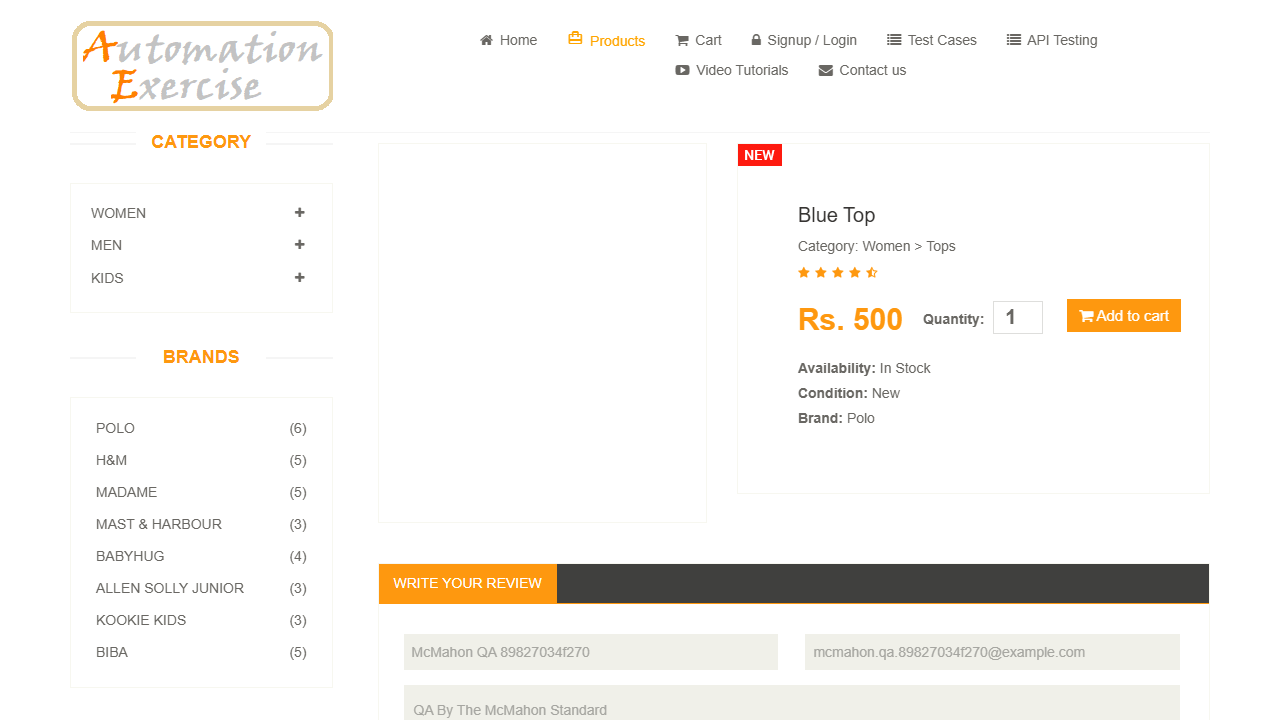
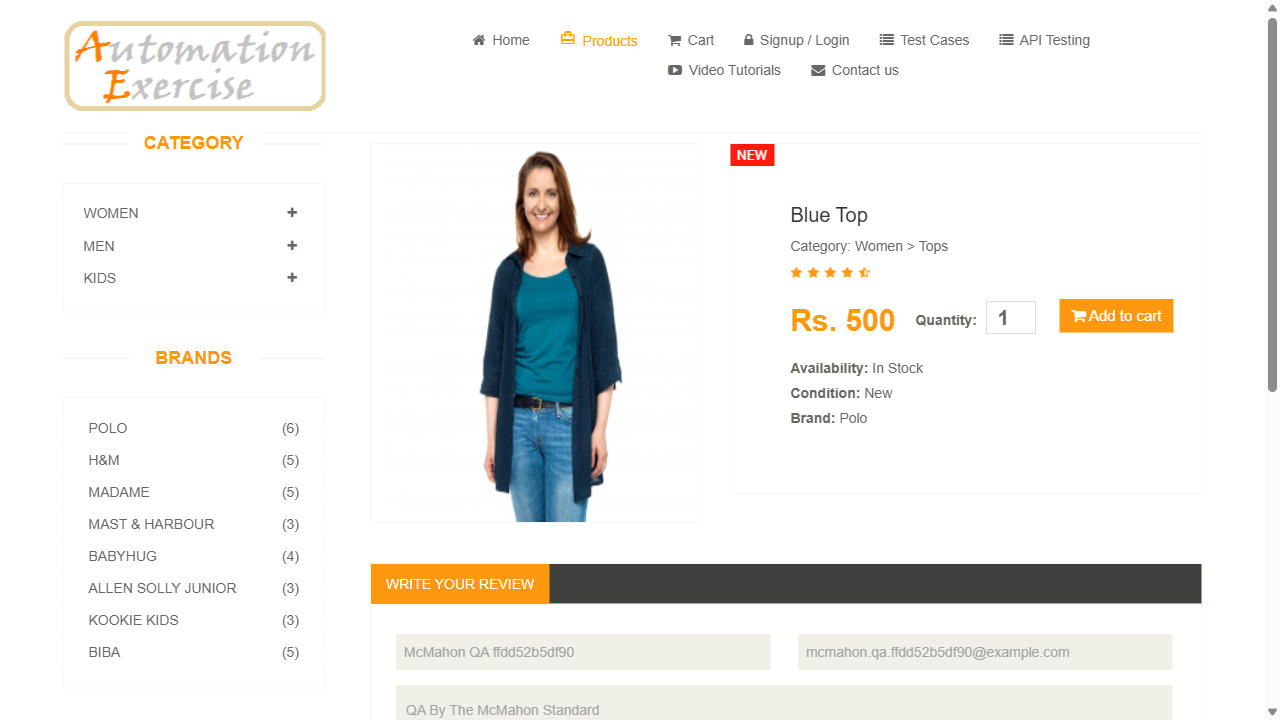
docs: reconcile Jira and portfolio artifacts
Reconcile completed registration, checkout, cart persistence, and product review results across Jira, the RTM, the Test Case Repository, evidence, and README documentation.

Complete the planned automation Test Case fields for AEQA-125 through AEQA-128 while keeping them Backlog and Not Run.

diff --git a/README.md b/README.md
@@ -10,13 +10,13 @@ I am transitioning into software quality assurance and data analysis. This portf
 
 | Area | Completed Work | Current Result |
 |---|---|---|
-| Test execution | 48 portfolio Test Cases; 40 executed | 38 Passed, 2 Failed, 8 Not Run |
-| Jira test management | 44 requirements, 48 Test Cases, and 6 Bugs tracked in AEQA | 5 manual coverage-gap cases Passed; 8 remain Not Run |
+| Test execution | 53 Jira Test Cases; 44 executed | 42 Passed, 2 Failed, 9 Not Run |
+| Jira test management | 44 requirements, 53 Test Cases, and 6 Bugs tracked in AEQA | 8 manual coverage-gap cases Passed; 5 remain Not Run |
 | Defect reporting | 6 investigated defects | 3 open, 3 rejected after reconciliation or retest |
-| Requirements traceability | 44 UI, API, and tester-derived requirements | 44 fully covered by test design; Test Case execution is 38 Passed, 2 Failed, 8 Not Run |
+| Requirements traceability | 44 UI, API, and tester-derived requirements | 44 fully covered by test design; requirement execution is 37 Passed, 2 Failed, 5 Not Run |
 | API testing | 14 canonical API cases with separate Postman and Playwright coverage | Postman: 14/14 passed; Playwright: 14 API scenarios implemented |
 | API collection run | Corrected 14-request regression collection | Fresh run: 42/42 assertions passed, 0 errors; historical August 1 baseline retained |
-| Browser automation | Playwright API and browser suites | 14 API and 19 UI scenarios implemented with linked evidence |
+| Browser automation | Playwright API and browser suites | 14 API and 21 UI scenarios implemented with linked evidence |
 | Hacker News validation | Playwright ordering audit across paginated results | Exactly 100 unique articles verified with a branded HTML evidence report |
 | SQL analysis | Six-table relational sales database and 15 analytical queries | Schema, sanitized data, queries, joins, subquery, and results report complete |
 
@@ -34,7 +34,7 @@ I am transitioning into software quality assurance and data analysis. This portf
 
 ### Manual Test Repository
 
-The original manual workbook contains 34 documented UI cases. The current portfolio-level execution record in Jira covers 48 Test Cases: 40 executed, with 38 Passed, 2 Failed, and 8 Not Run. Coverage includes:
+The UI workbook contains 34 manual cases and 5 separate automation cases. Jira also contains 14 canonical API cases, producing 53 Test Cases in total. The current Jira record has 44 executed cases, with 42 Passed, 2 Failed, and 9 Not Run. Coverage includes:
 
 - Signup and account creation
 - Login, invalid authentication, and logout
@@ -54,7 +54,7 @@ The workbook records preconditions, controlled test data, numbered steps, expect
 - [Open the manual test-case repository](Automation%20Exercise%20Project/Test%20Cases/Automation%20Exercise%20-%20Test%20Case%20Repository.xlsx)
 - [Browse UI execution evidence](Automation%20Exercise%20Project/Screenshots)
 
-**Current execution summary:** 48 portfolio Test Cases; 40 executed; 38 Passed; 2 Failed; 8 Not Run. Detailed Jira evidence is available in the [project overview](Automation%20Exercise%20Project/README.md#jira-evidence).
+**Current execution summary:** 53 Jira Test Cases; 44 executed; 42 Passed; 2 Failed; 9 Not Run. The local 39-case UI workbook records 28 Passed, 2 Failed, and 9 Not Run. Detailed Jira evidence is available in the [project overview](Automation%20Exercise%20Project/README.md#jira-evidence).
 
 ### Defect Management
 
@@ -87,7 +87,7 @@ The RTM cross-references:
 | Not Covered | 0 |
 | **Total** | **44** |
 
-Jira now contains linked manual Test Cases for the former checkout, catalog, review, recommended-item, and scroll-navigation gaps. Five manual coverage-gap cases are reconciled as Passed, while eight remain Not Run. The project-level Jira documentation distinguishes that manual status from the latest successful automated run of `AE-CART-004 / AEQA-112`.
+Jira now contains linked manual Test Cases for the former checkout, catalog, review, recommended-item, and scroll-navigation gaps. Eight manual coverage-gap cases are reconciled as Passed, while five remain Not Run. The latest focused Playwright run passed `AE-REVIEW-001 / AEQA-124`, and the manual result remains independently recorded under `AEQA-113`.
 
 - [Open the requirements-traceability landing page](Automation%20Exercise%20Project/Test%20Plan/README.md)
 
@@ -101,7 +101,7 @@ The migration work demonstrates more than a CSV upload:
 - Separated product execution results from Jira workflow status so `Passed`, `Failed`, and `Not Run` remain test outcomes rather than misleading board states.
 - Normalized source values to valid Jira field options while preserving original IDs for cross-reference.
 - Built staged import files for 44 Requirements, 35 previously existing Test Cases, 6 Bugs, and 36 Test Case-to-Requirement relationships.
-- Designed and imported 13 additional manual cases for the RTM's partial and uncovered areas; five are now Passed with evidence and eight remain correctly marked `Not Run`.
+- Designed and imported 13 additional manual cases for the RTM's partial and uncovered areas; eight are now Passed with evidence and five remain correctly marked `Not Run`.
 - Linked each new Test Case to its Requirement using the custom `tests` relationship, producing the working chain `Requirement -> Test Case -> Bug`.
 - Captured board and work-item evidence so employers can review the implementation without receiving edit access to the live Jira site.
 
@@ -251,7 +251,7 @@ npm.cmd run test:headed
 ## Current Development Focus
 
 - Keep the clean Postman regression run and its sanitized evidence synchronized with future API changes
-- Execute the 8 remaining Jira manual coverage-gap cases and reconcile the outcomes back to the formal RTM
+- Execute the 5 remaining Jira manual coverage-gap cases and reconcile the outcomes back to the formal RTM
 - Retest open defects when fixes become available
 - Refine Power BI presentation styling and expand the dataset over time
 - Keep README landing pages and traceability links synchronized as each workstream matures

diff --git a/Automation Exercise Project/README.md b/Automation Exercise Project/README.md
@@ -12,12 +12,12 @@ This project demonstrates a complete quality-assurance workflow for the Automati
 
 | Workstream | Result |
 |---|---|
-| Test execution | 48 portfolio Test Cases; 40 executed, 38 Passed, 2 Failed, and 8 Not Run |
+| Test execution | 53 Jira Test Cases; 44 executed, 42 Passed, 2 Failed, and 9 Not Run |
 | Defect management | 6 investigated defects: 3 open and 3 rejected after reconciliation or retest |
-| Requirements traceability | 44 requirements fully covered by test design; Test Case execution is 38 Passed, 2 Failed, and 8 Not Run |
+| Requirements traceability | 44 requirements fully covered by test design; requirement execution is 37 Passed, 2 Failed, and 5 Not Run |
 | API testing | 14 canonical cases; Postman 14 passed and Playwright 14 API scenarios implemented |
 | Postman collection run | Fresh result: 42/42 assertions passed, 0 errors; historical August 1 baseline retained separately |
-| Browser automation | 14 API and 19 UI scenarios implemented in Playwright with linked evidence |
+| Browser automation | 14 API and 21 UI scenarios implemented in Playwright with linked evidence |
 
 ## Project Artifacts
 
@@ -38,14 +38,14 @@ The Jira implementation includes custom Requirement and Test Case work types, st
 
 Before import, the Excel RTM, test repositories, defect log, and evidence references were treated as a migration dataset. Original IDs were preserved; Jira field values and priorities were normalized; execution outcomes were kept separate from workflow status; rejected observations and historical failures were retained for auditability; and Test Case-to-Requirement relationships were staged separately for post-import reconciliation. This prevented invalid options, misleading completion states, and broken traceability from entering Jira.
 
-### Current Jira Execution State — August 17, 2026
+### Current Jira Execution State - August 17, 2026
 
-- 48 portfolio Test Cases are represented: 40 executed, including 38 Passed and 2 Failed; 8 are Not Run.
-- Of the 13 additional `automationexercise.com` manual Test Cases designed for documented RTM gaps, five are Passed and eight remain Not Run.
-- The latest saved automated report is a separate Chromium run of `AE-CART-004 / AEQA-112`: Passed, 1/1 passed, 0 failed, 0 skipped (`ae-20260817170106`, 2026-08-17). Its Jira manual execution text remains Not Run, so it is not counted as a sixth manual completion.
+- 53 Jira Test Cases are represented: 44 executed, including 42 Passed and 2 Failed; 9 are Not Run.
+- Of the 13 additional `automationexercise.com` manual Test Cases designed for documented RTM gaps, eight are Passed and five remain Not Run.
+- The latest saved automated report is a focused Chromium run of `AE-REVIEW-001 / AEQA-124`: Passed, 1/1 passed, 0 failed, 0 skipped (`ae-20260817225729`, 2026-08-17). The separate manual case `AEQA-113` is also Passed with its own evidence.
 - Every new coverage-gap Test Case links to its Requirement using the custom `tests` relationship.
 
-The staged package is retained as historical migration evidence: 44 Requirements, 35 existing Test Cases, 6 Bugs, and a 36-row relationship manifest. After the gap analysis, 13 additional automationexercise.com manual cases were imported, bringing the represented Test Case total to 48.
+The staged package is retained as historical migration evidence: 44 Requirements, 35 existing Test Cases, 6 Bugs, and a 36-row relationship manifest. After the gap analysis, 13 additional manual cases and 5 separate automation Test Cases were added, bringing the current Jira Test Case total to 53.
 
 - [Review the Jira import preparation and reconciliation record](Jira%20Import%20Ready/README.md)
 
@@ -53,21 +53,21 @@ The staged package is retained as historical migration evidence: 44 Requirements
 
 The Reports dashboard summarizes the current 122 Jira work items by status, type, assignee, and delivery trend.
 
-![AEQA Jira Reports dashboard — August 17, 2026](Portfolio%20Evidence/Jira/AEQA-Jira-Reports-2026-08-17.png)
+![AEQA Jira Reports dashboard, August 17, 2026](Portfolio%20Evidence/Jira/AEQA-Jira-Reports-2026-08-17.png)
 
 The Kanban board shows how those work items are distributed across the active workflow columns.
 
-![AEQA Jira Kanban board — August 17, 2026](Portfolio%20Evidence/Jira/AEQA-Jira-Kanban-Board-2026-08-17.png)
+![AEQA Jira Kanban board, August 17, 2026](Portfolio%20Evidence/Jira/AEQA-Jira-Kanban-Board-2026-08-17.png)
 
 ### Historical Jira Evidence
 
 The August 16 reconciliation report and August 10 images preserve earlier states that are superseded by the August 17 current state above.
 
-- [Superseded reconciliation snapshot — August 16, 2026](Portfolio%20Evidence/Jira/AEQA-Reconciliation-2026-08-16.md)
+- [Superseded reconciliation snapshot, August 16, 2026](Portfolio%20Evidence/Jira/AEQA-Reconciliation-2026-08-16.md)
 
-![AEQA Jira Kanban board — August 10, 2026](Portfolio%20Evidence/Jira/AEQA-Jira-Kanban-Board-2026-08-10.png)
+![AEQA Jira Kanban board, August 10, 2026](Portfolio%20Evidence/Jira/AEQA-Jira-Kanban-Board-2026-08-10.png)
 
-![AEQA Test Case and Requirement traceability — August 10, 2026](Portfolio%20Evidence/Jira/AEQA-Jira-TestCase-Traceability-2026-08-10.png)
+![AEQA Test Case and Requirement traceability, August 10, 2026](Portfolio%20Evidence/Jira/AEQA-Jira-TestCase-Traceability-2026-08-10.png)
 
 ## Test Coverage
 

diff --git a/Automation Exercise Project/Test Plan/README.md b/Automation Exercise Project/Test Plan/README.md
@@ -28,18 +28,19 @@ Evidence references and defect IDs have separate columns. A disagreement between
 | Fully covered by test design | 44 |
 | Partially covered | 0 |
 | Not covered | 0 |
-| Portfolio Test Cases | 48 |
+| Jira Test Cases | 53 |
 | Bugs | 6 |
-| Test Cases executed | 40 |
-| Test Case execution: Passed | 38 |
+| Test Cases executed | 44 |
+| Test Case execution: Passed | 42 |
 | Test Case execution: Failed | 2 |
-| Test Case execution: Not Run | 8 |
-| Playwright scenarios implemented | 14 API; 19 UI |
+| Test Case execution: Not Run | 9 |
+| Requirement execution: Passed / Failed / Not Run | 37 / 2 / 5 |
+| Playwright scenarios implemented | 14 API; 21 UI |
 
-As of August 17, 2026, Jira contains 122 work items when the administrative requirement, tasks, and subtasks are included; the portfolio RTM requirement scope remains 44. All 13 former design gaps have linked manual Test Cases. Five are Passed and eight remain Not Run. `AEQA-121`, the Playwright registration-automation work item, is Done.
+As of August 17, 2026, Jira contains 122 work items when the administrative requirement, tasks, and subtasks are included; the portfolio RTM requirement scope remains 44. All 13 former design gaps have linked manual Test Cases. Eight are Passed and five remain Not Run. Planned automation Test Cases `AEQA-125` through `AEQA-128` are fully documented and correctly remain Not Run in the Backlog.
 
-The RTM's **Jira Sync** sheet preserves a historical 121-work-item AEQA snapshot through August 16, 2026, including Jira keys, work types, workflow states, custom IDs, execution and automation states, Testing links, parents, and update timestamps.
+The RTM's **Jira Sync** sheet is reconciled through August 17, 2026 for the latest registration, checkout, cart-persistence, product-review, and planned automation records. It includes Jira keys, work types, workflow states, custom IDs, execution and automation states, Testing links, parents, and update timestamps.
 
-The latest saved automated report is a separate Chromium run of `AE-CART-004 / AEQA-112`: Passed, 1/1 passed, 0 failed, and 0 skipped (`ae-20260817170106`, August 17, 2026). The Jira manual execution text for `AEQA-112` remains Not Run, so this automated result does not change the manual totals.
+The latest saved automated report is a focused Chromium run of `AE-REVIEW-001 / AEQA-124`: Passed, 1/1 passed, 0 failed, and 0 skipped (`ae-20260817225729`, August 17, 2026). The linked manual case `AEQA-113` is independently recorded as Passed with its own evidence.
 
 The corrected Postman collection completed a clean run on August 9: 14 requests, 42 of 42 assertions passed, and zero errors. Playwright implements all 14 API scenarios. The August 1 Postman baseline remains historical and is retained separately for auditability.

diff --git a/Automation Exercise Project/Jira Import Ready/README.md b/Automation Exercise Project/Jira Import Ready/README.md
@@ -50,25 +50,26 @@ The following cleanup decisions, package counts, and sequence document the origi
 - Previously passing Test Cases remain complete, while failed cases remain open for retest.
 - At import time, new cases remained Not Run, avoiding any claim of execution that had not occurred.
 
-## Current Reconciled State — August 17, 2026
+## Current Reconciled State - August 17, 2026
 
-- Portfolio scope: 44 Requirements, 48 Test Cases, and 6 Bugs.
-- Execution outcomes: 40 executed — 38 Passed, 2 Failed, and 8 Not Run.
-- Of the 13 manual coverage-gap cases, 5 are Passed and 8 remain Not Run.
-- The latest saved automation report is a separate Chromium run of `AE-CART-004 / AEQA-112`: Passed, 1/1 passed, 0 failed, 0 skipped (`ae-20260817170106`, 2026-08-17). Jira's manual execution text for AEQA-112 remains Not Run, so that automation result does not make it a sixth manual completion.
+- Portfolio scope: 44 Requirements, 53 Test Cases, and 6 Bugs.
+- Execution outcomes: 44 executed, with 42 Passed, 2 Failed, and 9 Not Run.
+- Of the 13 manual coverage-gap cases, 8 are Passed and 5 remain Not Run.
+- The latest saved automation report is a focused Chromium run of `AE-REVIEW-001 / AEQA-124`: Passed, 1/1 passed, 0 failed, 0 skipped (`ae-20260817225729`, 2026-08-17). The linked manual case `AEQA-113` is also Passed with separate evidence.
+- Planned automation Test Cases `AEQA-125` through `AEQA-128` have complete fields, links, labels, and acceptance criteria. They remain Backlog and Not Run until implementation.
 
 The Reports dashboard provides the current 122-item project view across workflow status, work-item type, assignee, creation, completion, lead-time, and cycle-time trends.
 
-![AEQA Jira Reports dashboard — August 17, 2026](../Portfolio%20Evidence/Jira/AEQA-Jira-Reports-2026-08-17.png)
+![AEQA Jira Reports dashboard, August 17, 2026](../Portfolio%20Evidence/Jira/AEQA-Jira-Reports-2026-08-17.png)
 
 The Kanban board provides the corresponding workflow view.
 
-![AEQA Kanban board — August 17, 2026](../Portfolio%20Evidence/Jira/AEQA-Jira-Kanban-Board-2026-08-17.png)
+![AEQA Kanban board, August 17, 2026](../Portfolio%20Evidence/Jira/AEQA-Jira-Kanban-Board-2026-08-17.png)
 
 ## Historical Import Evidence
 
-![AEQA Kanban board — August 10, 2026](../Portfolio%20Evidence/Jira/AEQA-Jira-Kanban-Board-2026-08-10.png)
+![AEQA Kanban board, August 10, 2026](../Portfolio%20Evidence/Jira/AEQA-Jira-Kanban-Board-2026-08-10.png)
 
-![Test Case-to-Requirement traceability — August 10, 2026](../Portfolio%20Evidence/Jira/AEQA-Jira-TestCase-Traceability-2026-08-10.png)
+![Test Case-to-Requirement traceability, August 10, 2026](../Portfolio%20Evidence/Jira/AEQA-Jira-TestCase-Traceability-2026-08-10.png)
 
 

diff --git a/Automation Exercise Project/Test Cases/README.md b/Automation Exercise Project/Test Cases/README.md
@@ -12,17 +12,17 @@ This folder contains the structured manual test repository for the Automation Ex
 
 ## Repository Contents
 
-The workbook records 34 manual UI cases with requirement IDs, preconditions, controlled test data, numbered steps, expected and actual results, execution status, evidence, linked defects, and the Jira keys used to reconcile newly designed coverage. The current portfolio execution record also includes 14 canonical API Test Cases, producing 48 Jira Test Cases in total.
+The workbook records 34 manual UI cases and 5 separate UI automation cases with requirement IDs, preconditions, controlled test data, numbered steps, expected and actual results, execution status, evidence, linked defects, and Jira traceability. Jira also contains 14 canonical API Test Cases, producing 53 Test Cases in total.
 
 | Execution measure | Portfolio Test Cases | Manual workbook subset |
 |---|---:|---:|
-| Documented | 48 | 34 |
-| Executed | 40 | 26 |
-| Passed | 38 | 24 |
+| Documented | 53 | 39 |
+| Executed | 44 | 30 |
+| Passed | 42 | 28 |
 | Failed | 2 | 2 |
-| Not Run | 8 | 8 |
+| Not Run | 9 | 9 |
 
-Thirteen manual cases were synchronized from Jira after the RTM gap analysis and cover checkout, catalog navigation, reviews, recommended items, cart persistence, address and invoice checks, and scroll navigation. Five are now Passed and eight remain Not Run. The latest saved automated report separately records `AE-CART-004 / AEQA-112` as Passed in Chromium (1/1 passed); its Jira manual execution text remains Not Run, so it is not counted as a sixth manual completion. The two current failures remain traceable to open product defects.
+Thirteen manual cases were synchronized from Jira after the RTM gap analysis and cover checkout, catalog navigation, reviews, recommended items, cart persistence, address and invoice checks, and scroll navigation. Eight are now Passed and five remain Not Run. Five separate automation Test Cases extend that design, with `AE-AUTO-REVIEW-001 / AEQA-124` Passed and four planned cases correctly remaining Not Run. The two current failures remain traceable to open product defects.
 
 ## Related Evidence
 
